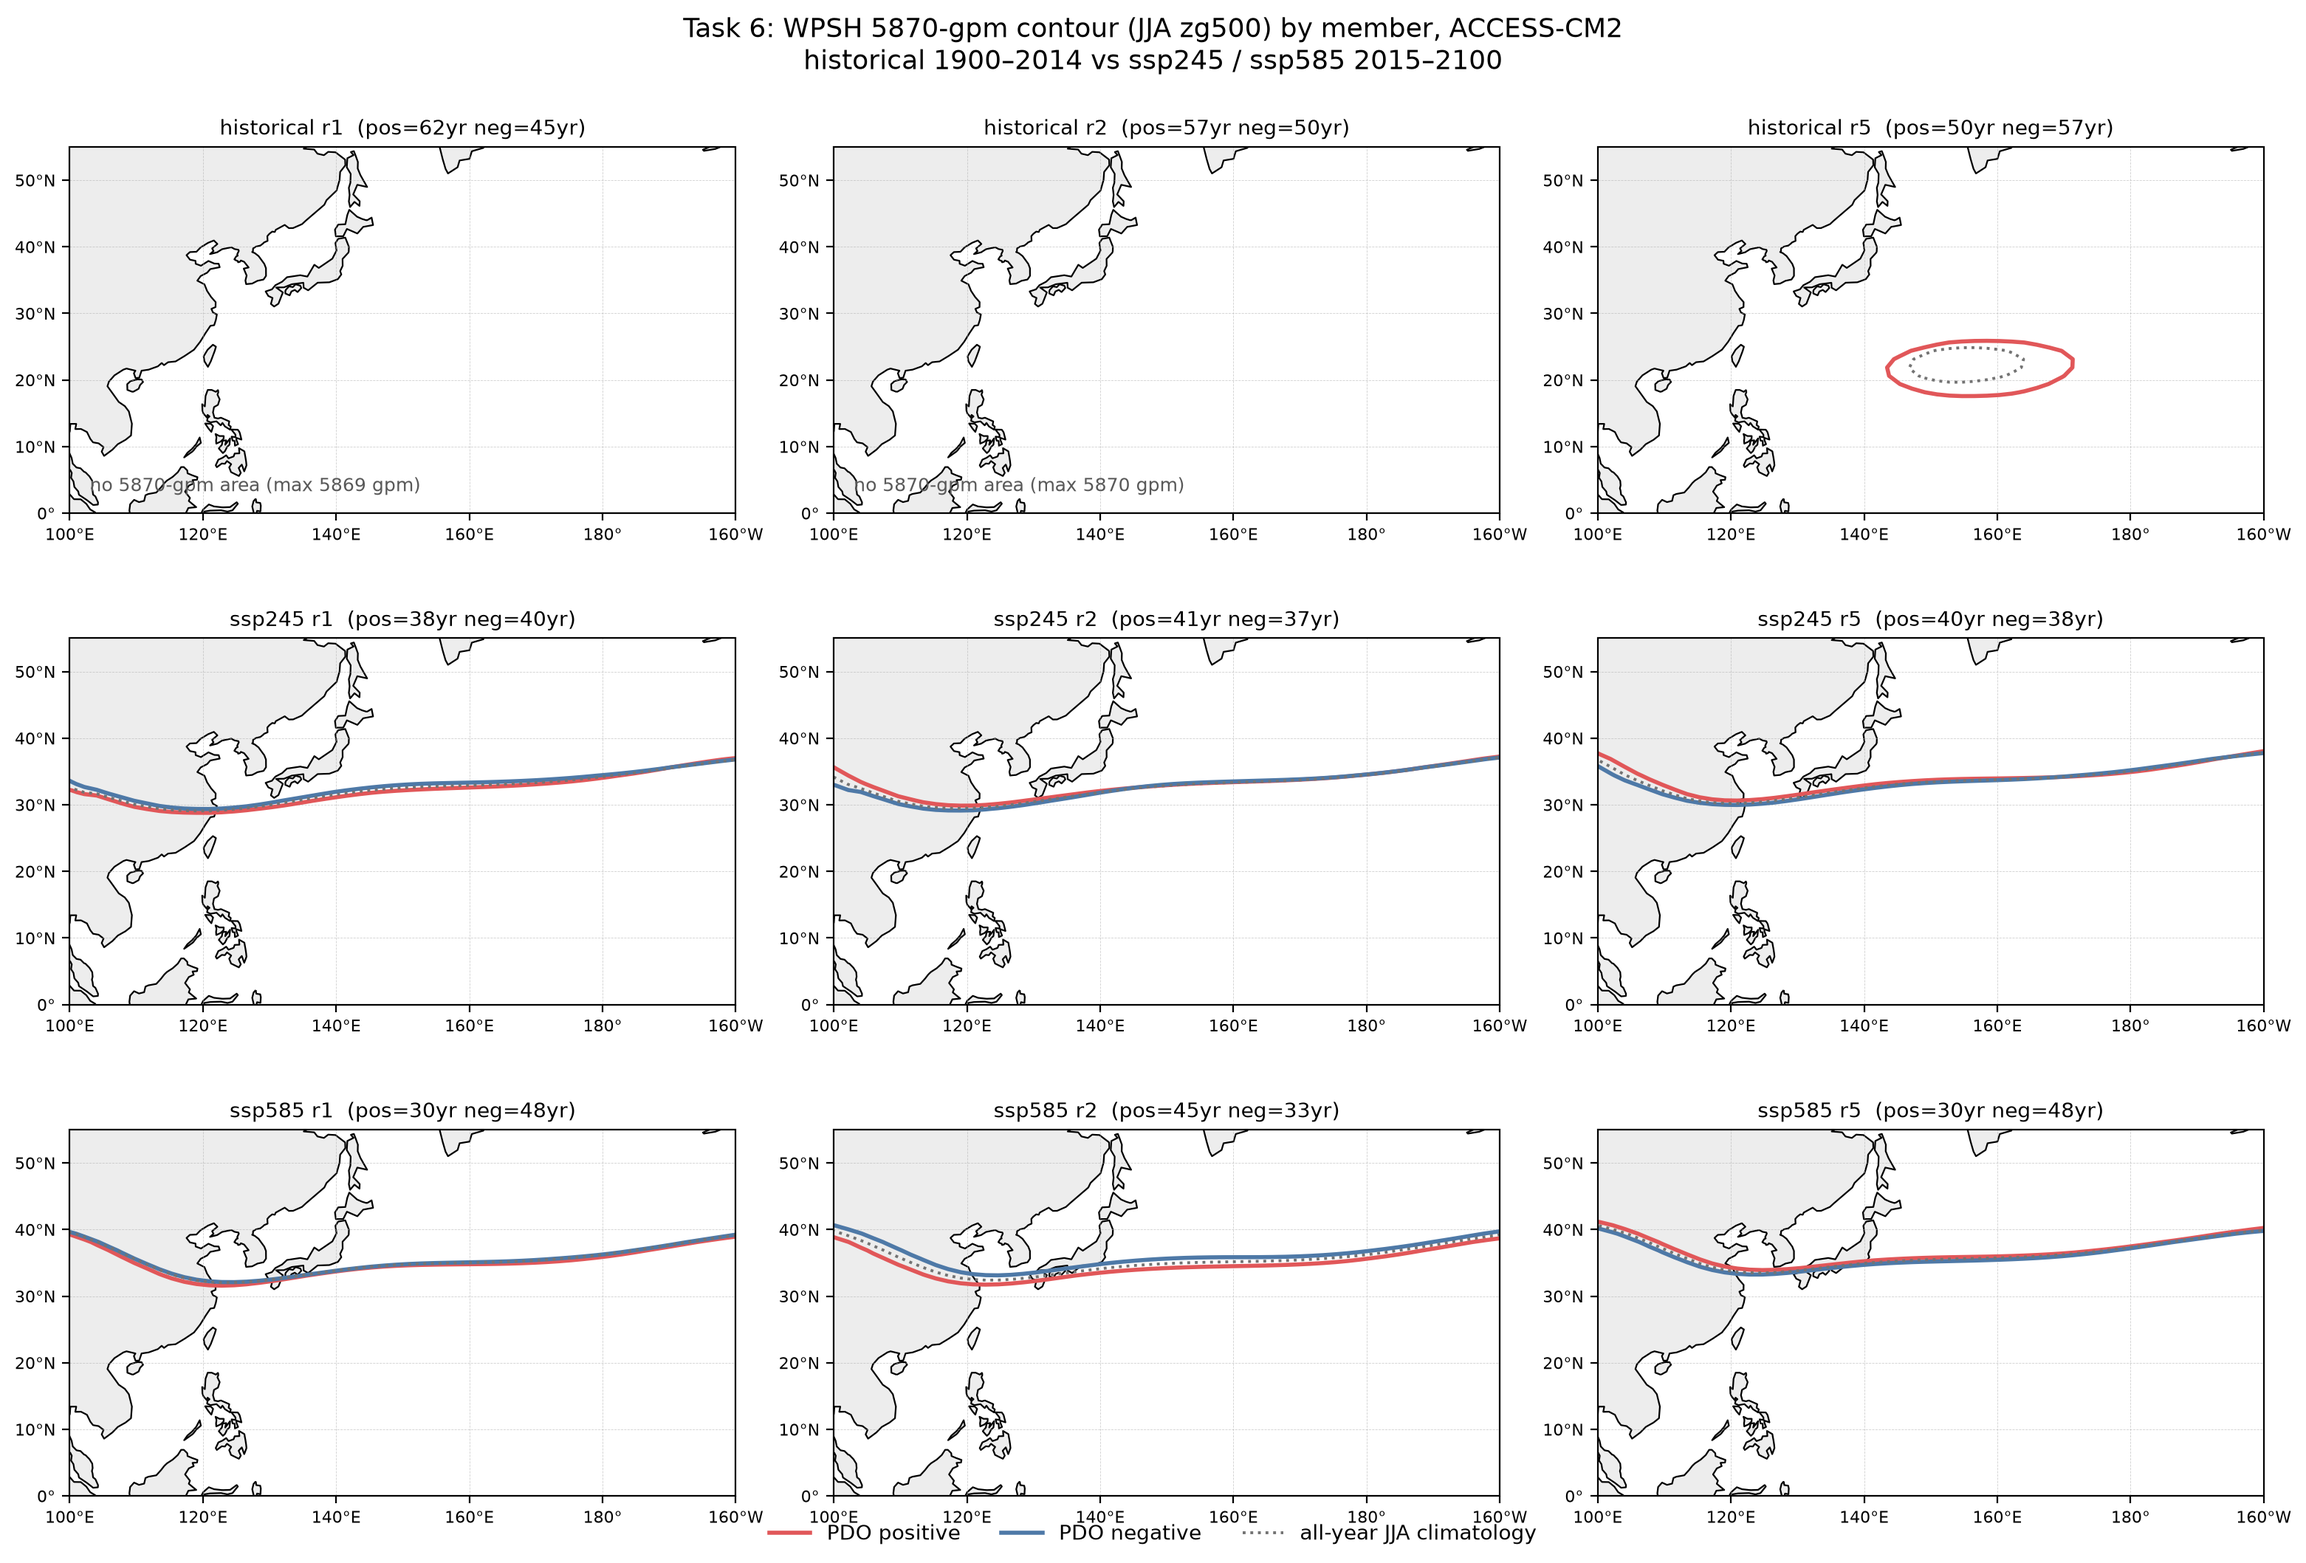
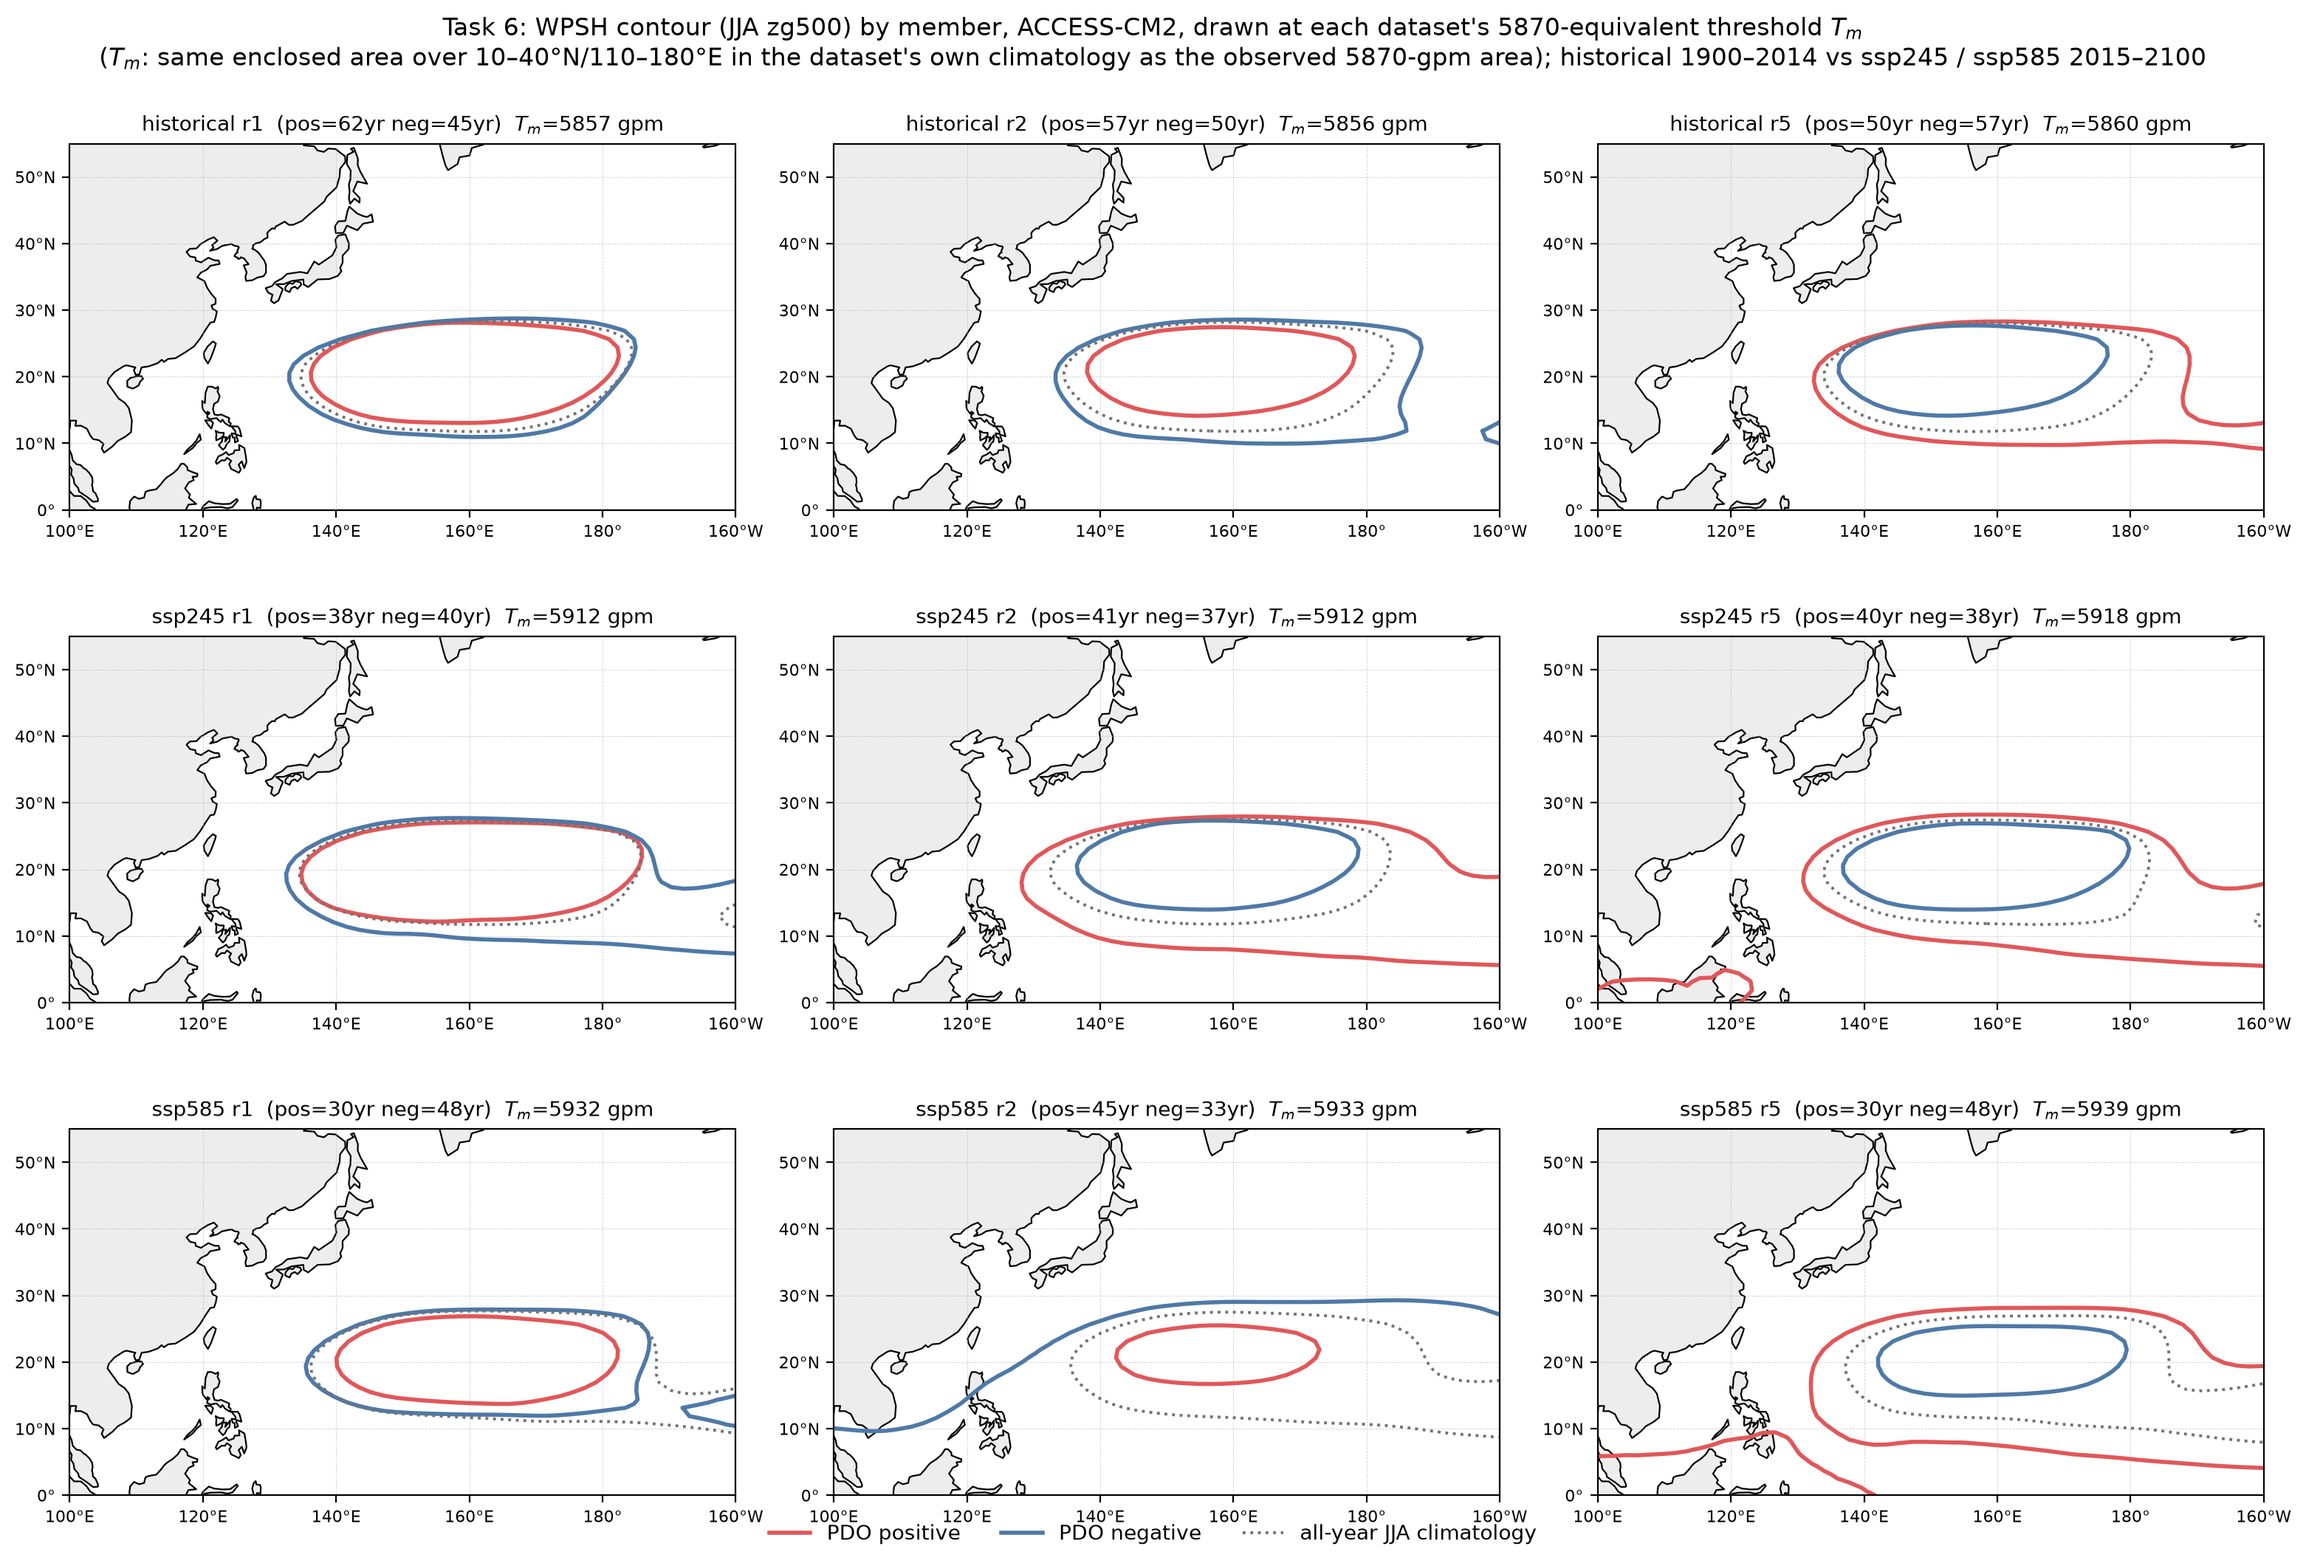
Task 6: replace box-mean bias adjustment with equal-area equivalent threshold
The single additive offset (5870 + box-mean bias) distorted the WPSH
geometry: the ACCESS-CM2 zg500 bias is strongly latitude-dependent
(+1..+6 gpm at 0-10N vs -42..-49 gpm at 30-40N), so lowering the
threshold to ~5850 put the equatorial Pacific above it and the contour
lost its southern boundary.  Model contours are now drawn at T_m, the
isoline whose >=T_m area in the dataset's own JJA climatology
(10-40N/110-180E, cos-lat weighted) equals the observed >=5870 area in
NCEP 1948-2014 (T_m: hist 5856-5860, ssp245 5912-5918, ssp585
5932-5939).  This also absorbs the mean height rise under warming
(ssp245 +40 / ssp585 +86 gpm over 2015-2100) that turned the raw 5870
line into a quasi-zonal ~35N line.

Figure 1 keeps the raw fixed 5870 contours (absent/degenerate lines are
a real result, now annotated); Figures 2 and 3 use T_m, restoring
closed WPSH cells for every member and scenario.  Summary entries
*_bias_adjusted are replaced by *_equivalent_threshold.

diff --git a/scripts/task6_wpsh.py b/scripts/task6_wpsh.py
@@ -13,18 +13,29 @@ with the rainfall composites:
   historical   ACCESS-CM2 r1/r2/r5 zg500, 1900-2014
   ssp245/585   ACCESS-CM2 r1/r2/r5 zg500, 2015-2100
 
+The raw 5870-gpm threshold works for the NCEP observation panel only.
+ACCESS-CM2 zg500 is ~17-20 gpm too low at the ridge (and up to ~-47 gpm at
+30-40N, +5 gpm near the equator), so the historical composites peak at
+5865-5874 gpm and the 5870 line barely exists.  Under ssp245/ssp585 the
+whole subtropical height field rises (+40 / +86 gpm over 2015-2100), so
+the 5870 isoline detaches from the WPSH and becomes a quasi-zonal line
+near 35N.  Model panels therefore also use an "equivalent threshold"
+T_m: the level whose >=T_m area in the dataset's own JJA climatology
+(box 10-40N/110-180E, cos-lat weighted) equals the observed >=5870 area
+in NCEP 1948-2014.  A single additive bias offset is NOT used - the bias
+is strongly latitude-dependent, which distorts the contour geometry.
+
 Figures:
-  Task6_Figure1_WPSH_5870_JJA.png        2x2 obs / historical / ssp245 / ssp585
-  Task6_Figure2_WPSH_5870_by_member.png  3x3 member detail with climatology
-  Task6_Figure3_WPSH_bias_adjusted.png   2x2 as Fig 1 but model contours at
-                                         5870+bias (bias = member 1948-2014
-                                         climatology minus NCEP, box mean
-                                         10-40N/110-180E) - ACCESS-CM2 zg500
-                                         sits ~a few tens of gpm too low, so
-                                         the raw 5870 line barely exists in
-                                         the historical run
+  Task6_Figure1_WPSH_5870_JJA.png            2x2 raw fixed 5870 gpm
+                                             (faithful to Dong 2016; absent /
+                                             degenerate model lines are a real
+                                             result of bias + warming)
+  Task6_Figure2_WPSH_5870_by_member.png      3x3 member detail at each
+                                             dataset's equivalent threshold
+  Task6_Figure3_WPSH_equivalent_threshold.png  2x2 as Fig 1 but model
+                                             contours at T_m (main result)
 Outputs:
-  results/task6_summary.json  (n years used, 5870 western edge per dataset)
+  results/task6_summary.json  (n years, thresholds, 5870/T_m west edges)
 """
 import json
 from pathlib import Path
@@ -91,6 +102,28 @@ def west_edge(field, thresh=THRESH):
     return round(float(lons.min()), 1) if lons.size else None
 
 
+AREA_BOX = dict(lat=slice(10, 40), lon=slice(110, 180))
+
+
+def area_frac(field, thresh):
+    """Cos-lat weighted fraction of AREA_BOX where field >= thresh."""
+    sub = field.sel(**AREA_BOX)
+    w = np.cos(np.deg2rad(sub.lat)).broadcast_like(sub)
+    return float(w.where(sub >= thresh).sum() / w.sum())
+
+
+def eq_thresh(clim, frac):
+    """Threshold whose >= area fraction in AREA_BOX equals `frac`
+    (weighted quantile of the climatology). 5870-equivalent isoline."""
+    sub = clim.sel(**AREA_BOX)
+    w = np.cos(np.deg2rad(sub.lat)).broadcast_like(sub)
+    v, ww = sub.values.ravel(), w.values.ravel()
+    order = np.argsort(v)[::-1]
+    v, ww = v[order], ww[order]
+    cum = np.cumsum(ww) / ww.sum()
+    return float(v[min(np.searchsorted(cum, frac), v.size - 1)])
+
+
 def wpsh_axis(ax):
     ax.set_extent(EXTENT, crs=ccrs.PlateCarree())
     ax.coastlines(lw=0.8)
@@ -155,6 +188,12 @@ def main():
             comps[(scen, m)] = composites(
                 jja_by_year(files, 2015, 2100), pos, neg)
 
+    # 5870-equivalent threshold per model dataset (equal enclosed area in
+    # AREA_BOX between the dataset's own climatology and NCEP >=5870)
+    f_obs = area_frac(comps["obs"]["clim"], THRESH)
+    teq = {key: round(eq_thresh(c["clim"], f_obs), 1)
+           for key, c in comps.items() if key != "obs"}
+
     # ---- Figure 1: 2x2 overview ------------------------------------------
     proj = ccrs.PlateCarree(central_longitude=150)
     fig, axes = plt.subplots(2, 2, figsize=(13, 8.6), constrained_layout=True,
@@ -176,6 +215,11 @@ def main():
             miss = missing_members(comps, key)
             if miss:
                 ax.text(0.02, 0.04, "no 5870-gpm area: " + ", ".join(miss),
+                        transform=ax.transAxes, fontsize=8, color="0.35")
+            elif key in SCENARIOS:
+                ax.text(0.02, 0.04, "warming lifts the whole field above "
+                        "5870 gpm south of the line —\nthe raw 5870 isoline "
+                        "no longer bounds the WPSH (see Fig. 3)",
                         transform=ax.transAxes, fontsize=8, color="0.35")
         ax.set_title(title, fontsize=10)
     handles = [Line2D([], [], color=C_POS, lw=2, label="PDO positive"),
@@ -204,13 +248,10 @@ def main():
             ax = axes[i, j]
             wpsh_axis(ax)
             c = comps[(exp, m)]
-            draw(ax, c, clim=True)
-            mx = max(float(c["pos"].max()), float(c["neg"].max()),
-                     float(c["clim"].max()))
-            if mx < THRESH:
-                ax.text(0.03, 0.06, f"no 5870-gpm area (max {mx:.0f} gpm)",
-                        transform=ax.transAxes, fontsize=9, color="0.35")
-            ax.set_title(f"{exp} {m}  (pos={c['n_pos']}yr neg={c['n_neg']}yr)",
+            t = teq[(exp, m)]
+            draw(ax, c, clim=True, thresh=t)
+            ax.set_title(f"{exp} {m}  (pos={c['n_pos']}yr "
+                         f"neg={c['n_neg']}yr)  $T_m$={t:.0f} gpm",
                          fontsize=10)
     handles = [Line2D([], [], color=C_POS, lw=2, label="PDO positive"),
                Line2D([], [], color=C_NEG, lw=2, label="PDO negative"),
@@ -218,14 +259,17 @@ def main():
                       label="all-year JJA climatology")]
     fig.legend(handles=handles, loc="lower center", ncol=3, fontsize=10,
                frameon=False)
-    fig.suptitle("Task 6: WPSH 5870-gpm contour (JJA zg500) by member, "
-                 "ACCESS-CM2\nhistorical 1900–2014 vs ssp245 / ssp585 "
-                 "2015–2100", fontsize=13)
+    fig.suptitle("Task 6: WPSH contour (JJA zg500) by member, ACCESS-CM2, "
+                 "drawn at each dataset's 5870-equivalent threshold $T_m$\n"
+                 "($T_m$: same enclosed area over 10–40°N/110–180°E in the "
+                 "dataset's own climatology as the observed 5870-gpm area); "
+                 "historical 1900–2014 vs ssp245 / ssp585 2015–2100",
+                 fontsize=12)
     fig.savefig(FIG / "Task6_Figure2_WPSH_5870_by_member.png", dpi=200,
                 bbox_inches="tight")
     plt.close(fig)
 
-    # ---- Figure 3: bias-adjusted thresholds for the model panels ----------
+    # ---- Figure 3: equivalent-threshold overview (main result) ------------
     fig, axes = plt.subplots(2, 2, figsize=(13, 8.6), constrained_layout=True,
                              subplot_kw={"projection": proj})
     for ax, (key, title) in zip(axes.flat, panels):
@@ -236,9 +280,13 @@ def main():
         else:
             for m in MEMBERS:
                 draw(ax, comps[(key, m)], ls=MEMBER_LS[m], lw=1.8,
-                     thresh=THRESH + bias[m])
+                     thresh=teq[(key, m)])
+            ax.text(0.02, 0.04,
+                    "$T_m$: " + ", ".join(f"{m} {teq[(key, m)]:.0f}"
+                                          for m in MEMBERS) + " gpm",
+                    transform=ax.transAxes, fontsize=8, color="0.35")
             ax.set_title(title.split(" (r1")[0]
-                         + "  —  contour at 5870+$\\Delta_m$", fontsize=10)
+                         + "  —  contour at $T_m$", fontsize=10)
     handles = [Line2D([], [], color=C_POS, lw=2, label="PDO positive"),
                Line2D([], [], color=C_NEG, lw=2, label="PDO negative"),
                Line2D([], [], color=C_CLIM, lw=1.4, ls=":",
@@ -247,12 +295,13 @@ def main():
                        label=f"member {m}") for m in MEMBERS]
     fig.legend(handles=handles, loc="lower center", ncol=6, fontsize=9,
                frameon=False)
-    fig.suptitle("Task 6 (bias-adjusted): model contours drawn at "
-                 "5870+$\\Delta_m$ gpm, where $\\Delta_m$ = member JJA zg500 "
-                 "climatology (1948–2014) minus NCEP, 10–40°N/110–180°E mean\n"
-                 + ", ".join(f"$\\Delta_{{{m}}}$={bias[m]:+.1f} gpm"
-                             for m in MEMBERS), fontsize=11)
-    fig.savefig(FIG / "Task6_Figure3_WPSH_bias_adjusted.png", dpi=200,
+    fig.suptitle("Task 6 (equivalent threshold): model contours at $T_m$, "
+                 "the isoline enclosing the same 10–40°N/110–180°E area in "
+                 "each dataset's own JJA climatology\nas the 5870-gpm line "
+                 "does in NCEP 1948–2014 — corrects the model's "
+                 "latitude-dependent low bias and the mean height rise "
+                 "under warming", fontsize=11)
+    fig.savefig(FIG / "Task6_Figure3_WPSH_equivalent_threshold.png", dpi=200,
                 bbox_inches="tight")
     plt.close(fig)
 
@@ -266,11 +315,14 @@ def main():
     summary = {"threshold_gpm": THRESH, "season": "JJA",
                "west_edge_domain": "10-40N, 100-180E",
                "model_bias_gpm_vs_ncep_1948_2014": bias,
+               "obs_area_fraction_ge_5870": round(f_obs, 3),
                "obs": entry(comps["obs"])}
     for exp in rows:
         summary[exp] = {m: entry(comps[(exp, m)]) for m in MEMBERS}
-        summary[exp + "_bias_adjusted"] = {
-            m: entry(comps[(exp, m)], THRESH + bias[m]) for m in MEMBERS}
+        summary[exp + "_equivalent_threshold"] = {
+            m: dict(threshold_gpm=teq[(exp, m)],
+                    **entry(comps[(exp, m)], teq[(exp, m)]))
+            for m in MEMBERS}
     (RES / "task6_summary.json").write_text(json.dumps(summary, indent=2))
     print(json.dumps(summary, indent=2))
 
